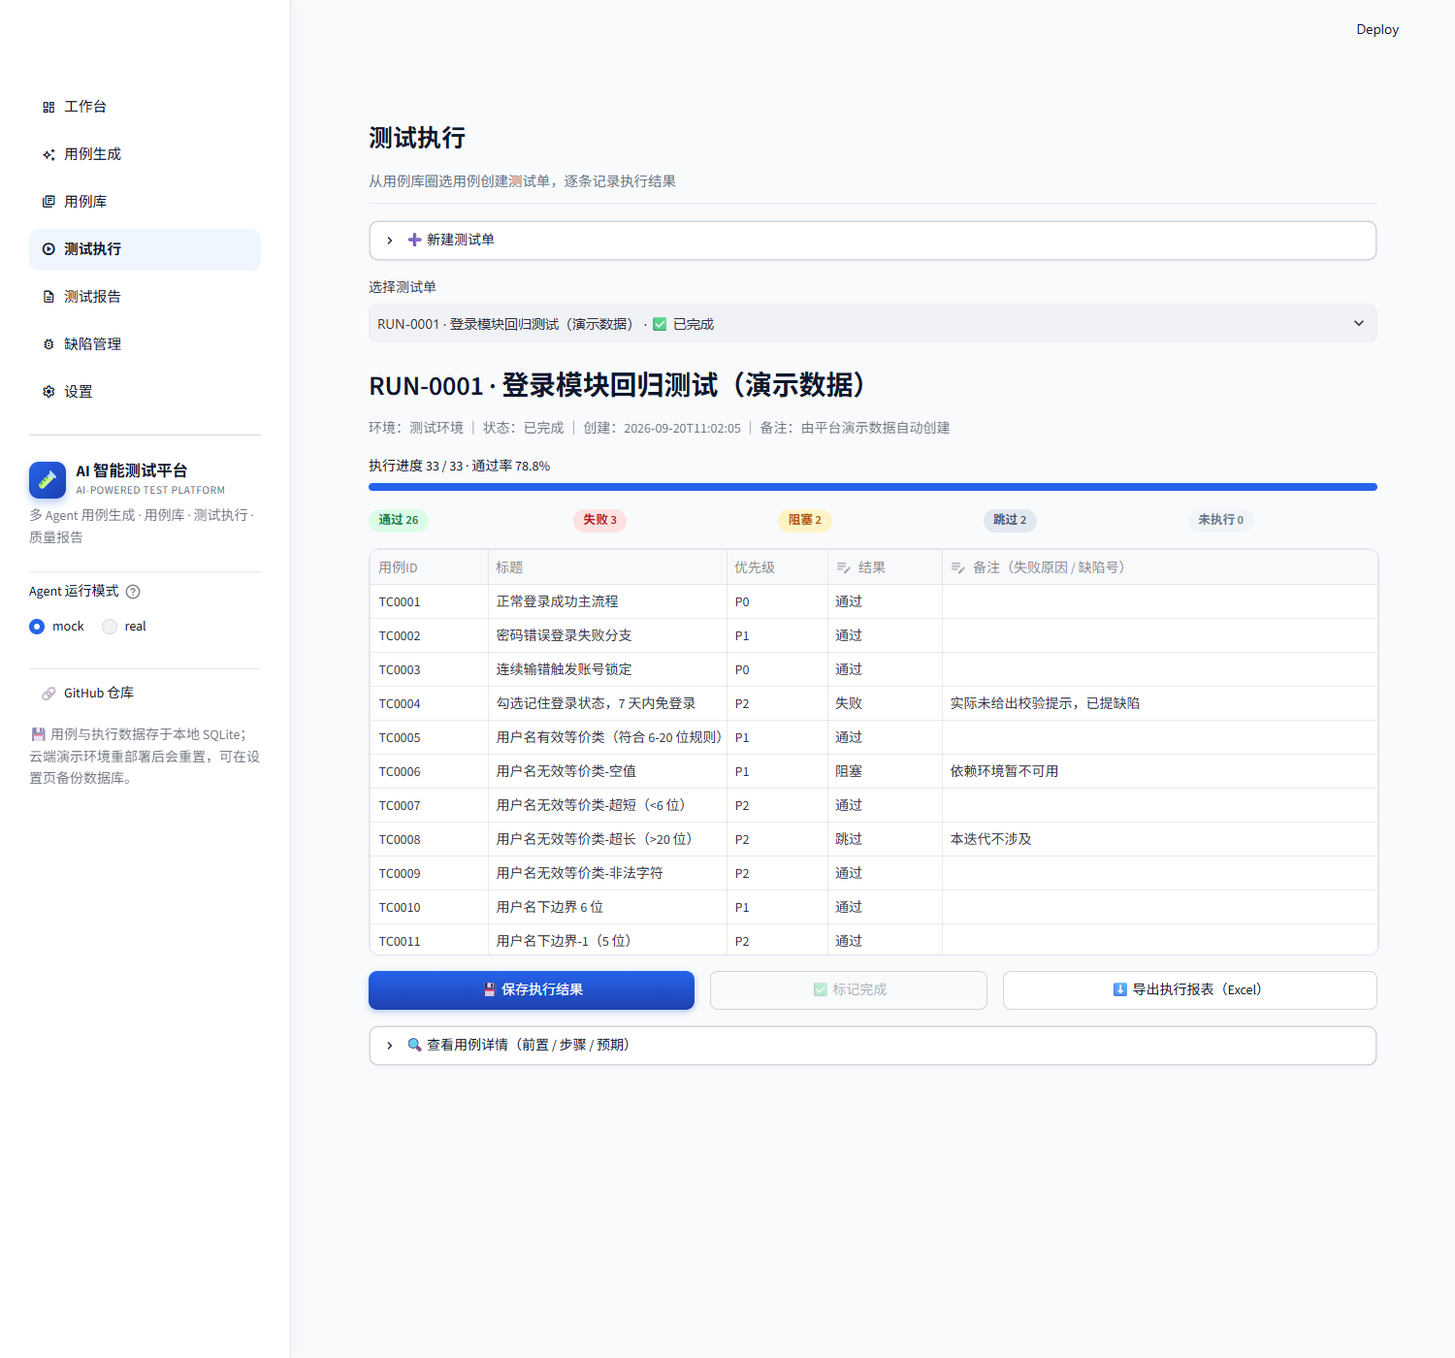
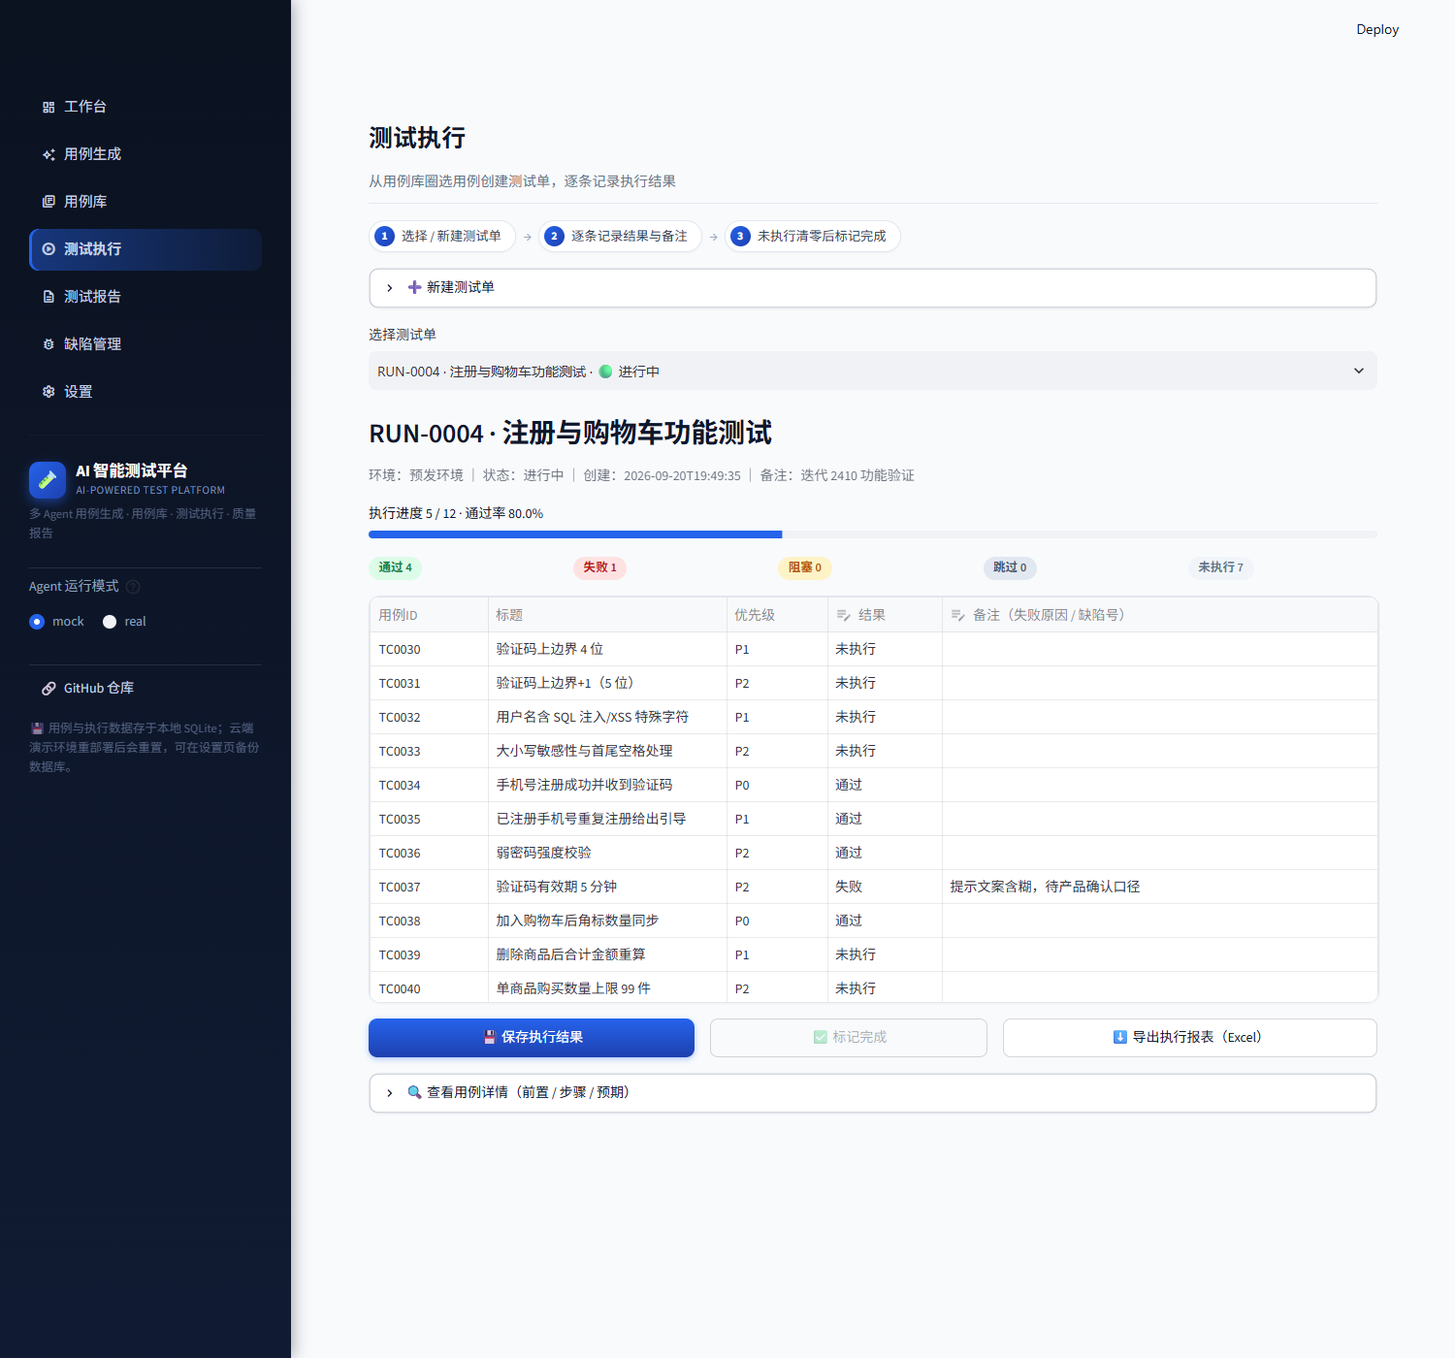
视觉与场景双升级：深色科技侧边栏 + 页面操作指引 + 电商企业级演示数据
- 侧边栏改为深海军蓝渐变（#0B1220→#101B33），导航态蓝色渐变高亮+主色内嵌光条，更专业科技感
- 新增 guide_steps 组件：生成/用例库/执行/报告/缺陷 5 页顶部步骤胶囊，标示标准操作路径
- seed_demo 重写为电商企业场景：用户注册/购物车手工用例（含前置/步骤/预期/冒烟标签）+ 登录 AI 用例，3 张测试单（回归已完成 78.8% / 每日冒烟 75% / 功能测试进行中），5 条缺陷覆盖 打开/修复中(严重)/已解决/已关闭 全状态
- 修复 seed_demo 重复填充产生重复数据问题（adopt_batch 显式 dedup=True），补充幂等单测
- 重新生成 6 张 README 演示截图

diff --git a/store.py b/store.py
@@ -544,7 +544,10 @@ def trend_last_runs(n: int = 10) -> list[dict]:
 # ---------------- 演示数据 / 清空 ----------------
 
 def seed_demo() -> None:
-    """一键填充演示数据：mock 流水线跑样例 PRD → 采纳入库 → 建一个已完成的测试单。"""
+    """一键填充演示数据：电商场景三模块 + 回归/冒烟/功能三张测试单 + 全状态缺陷。
+
+    幂等：同模块同名的用例不会重复入库；库中已有全部演示数据时为空操作。
+    """
     from agents import MockAnalyzerAgent, MockGeneratorAgent, MockReviewerAgent
     from pipeline import run as run_pipeline
 
@@ -556,33 +559,118 @@ def seed_demo() -> None:
     items = [{"module": c.module, "title": c.title, "precondition": c.precondition,
               "steps": c.steps, "expected": c.expected, "priority": c.priority,
               "method": c.method, "testpoint_id": c.testpoint_id} for c in cases]
-    _, ids = adopt_batch(prd_text, "mock", review.score, items)
-    if not ids:
+    _, login_ids = adopt_batch(prd_text, "mock", review.score, items, dedup=True)
+
+    # 手工补充 注册 / 购物车 两模块（模拟从 Excel 导入的存量用例）
+    manual = [
+        {"module": "用户注册", "title": "手机号注册成功并收到验证码", "priority": "P0",
+         "method": "场景法", "tags": "冒烟", "precondition": "手机号未注册",
+         "steps": "1. 输入未注册手机号\n2. 点击获取验证码\n3. 填写验证码与密码并提交",
+         "expected": "注册成功，跳转至首页"},
+        {"module": "用户注册", "title": "已注册手机号重复注册给出引导", "priority": "P1",
+         "method": "等价类", "precondition": "手机号已注册",
+         "steps": "1. 输入已注册手机号\n2. 点击获取验证码",
+         "expected": "提示「该手机号已注册」，引导去登录"},
+        {"module": "用户注册", "title": "弱密码强度校验", "priority": "P2",
+         "method": "边界值",
+         "steps": "1. 输入 7 位纯数字密码\n2. 提交注册",
+         "expected": "提示密码强度不足，要求字母+数字组合"},
+        {"module": "用户注册", "title": "验证码有效期 5 分钟", "priority": "P2",
+         "method": "场景法",
+         "steps": "1. 获取验证码\n2. 等待 6 分钟后填写提交",
+         "expected": "提示验证码已过期，可重新获取"},
+        {"module": "购物车", "title": "加入购物车后角标数量同步", "priority": "P0",
+         "method": "场景法", "tags": "冒烟", "precondition": "已登录，角标为 0",
+         "steps": "1. 商品详情页点击「加入购物车」\n2. 观察底部导航角标",
+         "expected": "角标数量 +1，与购物车内件数一致"},
+        {"module": "购物车", "title": "删除商品后合计金额重算", "priority": "P1",
+         "method": "场景法", "precondition": "购物车内含 2 件商品",
+         "steps": "1. 左滑删除其中 1 件\n2. 查看合计金额",
+         "expected": "合计金额同步减少，角标 -1"},
+        {"module": "购物车", "title": "单商品购买数量上限 99 件", "priority": "P2",
+         "method": "边界值",
+         "steps": "1. 数量步进调至 99 与 100\n2. 观察提交结果",
+         "expected": "99 正常保存；100 提示超出单商品上限"},
+        {"module": "购物车", "title": "下架商品不参与结算", "priority": "P1",
+         "method": "错误猜测", "precondition": "购物车内含 1 件已下架商品",
+         "steps": "1. 全选商品点击结算\n2. 查看订单明细",
+         "expected": "下架商品被自动剔除并提示，仅结算有效商品"},
+    ]
+    existing = {(c["module"], c["title"]) for c in list_cases()}
+    fresh_manual = [m for m in manual if (m["module"], m["title"]) not in existing]
+    manual_ids = add_cases(fresh_manual, source="manual") if fresh_manual else []
+    if not login_ids and not manual_ids:
         return
 
-    run_id = create_run(name="登录模块回归测试（演示数据）", env="测试环境",
-                        note="由平台演示数据自动创建", case_ids=ids)
-    # 确定性地铺一组真实感执行结果：绝大多数通过，少量失败/阻塞/跳过
-    for i, cid in enumerate(ids):
-        if i % 11 == 3:
-            result, note = "失败", "实际未给出校验提示，已提缺陷"
-        elif i % 17 == 5:
-            result, note = "阻塞", "依赖环境暂不可用"
-        elif i % 23 == 7:
-            result, note = "跳过", "本迭代不涉及"
-        else:
-            result, note = "通过", ""
-        set_result(run_id, cid, result, note)
-    finish_run(run_id)
+    # ① 登录模块回归（已完成 · 通过率 78.8%）：确定性铺真实感结果分布
+    defect_sources: list[tuple[dict, str, str]] = []  # (执行行, 严重程度, 备注)
+    if login_ids:
+        run1 = create_run(name="登录模块回归测试", env="测试环境",
+                          note="v2.4.0 发布前回归", case_ids=login_ids)
+        for i, cid in enumerate(login_ids):
+            if i % 11 == 3:
+                set_result(run1, cid, "失败", "实际未给出校验提示，已提缺陷")
+            elif i % 17 == 5:
+                set_result(run1, cid, "阻塞", "验证码服务环境暂不可用")
+            elif i % 23 == 7:
+                set_result(run1, cid, "跳过", "本迭代不涉及")
+            else:
+                set_result(run1, cid, "通过", "")
+        finish_run(run1)
+        rows1 = run_cases(run1)
+        fails = [r for r in rows1 if r["result"] == "失败"]
+        blocks = [r for r in rows1 if r["result"] == "阻塞"]
+        if fails:
+            defect_sources.append((fails[0], "一般", "打开"))
+        if blocks:
+            defect_sources.append((blocks[0], "轻微", "打开"))
+        if len(fails) > 1:
+            defect_sources.append((fails[1], "一般", "已解决"))   # 已修复，待回归验证
+        if len(blocks) > 1:
+            defect_sources.append((blocks[1], "轻微", "已关闭"))  # 已关闭
 
-    # 演示缺陷：把失败/阻塞用例登记为缺陷，形成 执行 → 缺陷 闭环示例
-    severity_of = {"失败": "一般", "阻塞": "轻微"}
-    for r in [x for x in run_cases(run_id) if x["result"] in ("失败", "阻塞")][:3]:
-        create_defect(
-            title=f"[{r['module']}] {r['title']} 执行{'失败' if r['result'] == '失败' else '受阻'}",
-            module=r["module"], severity=severity_of[r["result"]],
-            description=f"来源：RUN-{run_id:04d} 执行结果「{r['result']}」；{r['note'] or '详见执行明细'}",
-            source_case_id=r["case_id"], run_id=run_id)
+    # ② 每日冒烟（已完成 · P0 用例 · 高通过率，其中 1 条严重缺陷在修）
+    p0_cases = list_cases(priority=["P0"], status="active")[:10]
+    if p0_cases:
+        run2 = create_run(name="每日冒烟测试", env="测试环境",
+                          note="每日构建后圈选 P0 用例", case_ids=[c["id"] for c in p0_cases])
+        smoke_fail = None
+        for c in p0_cases:
+            if "角标" in c["title"]:
+                smoke_fail = c
+                set_result(run2, c["id"], "失败", "角标数量未同步刷新，已提严重缺陷")
+            else:
+                set_result(run2, c["id"], "通过", "")
+        if smoke_fail is not None:
+            defect_sources.insert(1, ({"case_id": smoke_fail["id"], "module": smoke_fail["module"],
+                                       "title": smoke_fail["title"],
+                                       "note": "角标数量与购物车实际件数不一致",
+                                       "result": "冒烟失败"},
+                                      "严重", "修复中"))
+        finish_run(run2)
+
+    # ③ 功能测试（进行中 · 部分执行）：演示执行中间态
+    func_ids = manual_ids + (login_ids[-4:] if login_ids else [])
+    if func_ids:
+        run3 = create_run(name="注册与购物车功能测试", env="预发环境",
+                          note="迭代 2410 功能验证", case_ids=func_ids)
+        for i, cid in enumerate(func_ids[:5]):
+            set_result(run3, cid, "失败" if i == 3 else "通过",
+                       "提示文案含糊，待产品确认口径" if i == 3 else "")
+    # run3 故意不 finish：保持「进行中」状态用于演示
+
+    # 演示缺陷：覆盖 打开 / 修复中 / 已解决 / 已关闭 全状态，与用例、测试单双向关联
+    result_word = {"失败": "回归失败", "阻塞": "执行受阻"}
+    for row, severity, status in defect_sources:
+        word = result_word.get(row.get("result"), row.get("result") or "测试失败")
+        did = create_defect(
+            title=f"[{row['module']}] {row['title']} {word}",
+            module=row["module"], severity=severity,
+            description=f"来源：{'每日冒烟测试' if '角标' in row['title'] else '登录模块回归测试'}；"
+                        f"{row.get('note') or '详见执行明细'}",
+            source_case_id=row["case_id"])
+        if status != "打开":
+            update_defect(did, status=status)
 
 
 def clear_all() -> None:

diff --git a/styles.py b/styles.py
@@ -46,38 +46,44 @@ _CSS = f"""
 [data-testid="stHeader"] {{ background: transparent; }}
 #MainMenu, footer, [data-testid="stStatusWidget"] {{ visibility: hidden; }}
 [data-testid="stSidebar"] {{
-    background: {CARD}; border-right: 1px solid {BORDER};
-    box-shadow: 2px 0 12px rgba(15, 23, 42, .03);
+    background: linear-gradient(180deg, #0B1220 0%, #101B33 100%);
+    border-right: none;
+    box-shadow: 2px 0 16px rgba(2, 6, 23, .35);
 }}
-[data-testid="stSidebar"] * {{ color: {TEXT}; }}
-[data-testid="stSidebar"] hr {{ margin: .35rem 0; border-color: {BORDER}; }}
+[data-testid="stSidebar"] * {{ color: #C7D2E3; }}
+[data-testid="stSidebar"] hr {{ margin: .35rem 0; border-color: rgba(148, 163, 184, .18); }}
+[data-testid="stSidebar"] [data-testid="stCaptionContainer"] p,
+[data-testid="stSidebar"] small {{ color: #7C8DB5 !important; font-size: .78rem; }}
+[data-testid="stSidebar"] label p {{ color: #8CA0BD; }}
 
-/* 侧边导航：圆角高亮，当前页蓝底 */
+/* 侧边导航：深色底圆角高亮，当前页蓝色渐变 + 左侧光条 */
 [data-testid="stSidebarNav"] {{ padding-top: .6rem; }}
 [data-testid="stSidebar"] span, [data-testid="stSidebar"] a {{ font-size: .92rem; }}
 [data-testid="stPageLink-NavLink"], [data-testid="stSidebarNav"] a {{
     border-radius: 10px !important; padding: .42rem .75rem !important;
+    color: #AAB8CE !important;
     transition: background .12s ease, color .12s ease;
 }}
 [data-testid="stPageLink-NavLink"]:hover, [data-testid="stSidebarNav"] a:hover {{
-    background: #F1F5F9;
+    background: rgba(148, 163, 184, .13) !important; color: #FFFFFF !important;
 }}
 [aria-current="page"][data-testid="stPageLink-NavLink"],
 [data-testid="stSidebarNav"] a[aria-current="page"] {{
-    background: {PRIMARY_LIGHT} !important; color: {PRIMARY_DARK} !important;
-    font-weight: 600;
+    background: linear-gradient(90deg, rgba(37, 99, 235, .45), rgba(37, 99, 235, .10)) !important;
+    color: #FFFFFF !important; font-weight: 600;
+    box-shadow: inset 3px 0 0 {PRIMARY};
 }}
 
-/* 品牌块 */
+/* 品牌块（深色底） */
 .brand {{ display: flex; align-items: center; gap: .65rem; padding: .2rem 0 .4rem 0; }}
 .brand .logo {{
     width: 38px; height: 38px; border-radius: 10px; flex: none;
     display: flex; align-items: center; justify-content: center; font-size: 1.15rem;
     background: linear-gradient(135deg, {PRIMARY}, {PRIMARY_DARK});
-    box-shadow: 0 4px 10px rgba(37, 99, 235, .35);
+    box-shadow: 0 4px 12px rgba(37, 99, 235, .5);
 }}
-.brand .n {{ font-weight: 700; font-size: 1.02rem; line-height: 1.25; }}
-.brand .d {{ color: {MUTED}; font-size: .72rem; letter-spacing: .04em; }}
+.brand .n {{ font-weight: 700; font-size: 1.02rem; line-height: 1.25; color: #FFFFFF; }}
+.brand .d {{ color: #7C8DB5; font-size: .72rem; letter-spacing: .04em; }}
 
 /* ---------- 页面标题 ---------- */
 .page-header {{ margin-bottom: .25rem; }}
@@ -89,6 +95,22 @@ _CSS = f"""
 .page-header hr {{
     border: none; border-top: 1px solid {BORDER}; margin: .6rem 0 1.1rem 0;
 }}
+
+/* ---------- 操作指引条：① → ② → ③ 步骤胶囊 ---------- */
+.guide {{ display: flex; align-items: center; flex-wrap: wrap; gap: .45rem; margin: 0 0 1.05rem 0; }}
+.guide .gs {{
+    display: inline-flex; align-items: center; gap: .45rem;
+    background: {CARD}; border: 1px solid {BORDER}; border-radius: 999px;
+    padding: .28rem .9rem .28rem .3rem; font-size: .83rem; color: #334155;
+    box-shadow: 0 1px 2px rgba(15, 23, 42, .04);
+}}
+.guide .gs-n {{
+    width: 21px; height: 21px; border-radius: 50%; flex: none;
+    background: linear-gradient(135deg, {PRIMARY}, {PRIMARY_DARK}); color: #FFFFFF;
+    font-size: .72rem; font-weight: 700;
+    display: flex; align-items: center; justify-content: center;
+}}
+.guide .gs-a {{ color: #94A3B8; font-size: .85rem; }}
 
 /* ---------- KPI 卡片：白卡 + 顶部色条 + 悬浮上浮 ---------- */
 .kpi-card {{
@@ -193,6 +215,15 @@ def page_header(title: str, desc: str = "") -> None:
         + (f"<p>{desc}</p>" if desc else "")
         + "<hr></div>",
         unsafe_allow_html=True)
+
+
+def guide_steps(steps: list[str]) -> None:
+    """页面操作指引条：① → ② → ③ 步骤胶囊，告诉用户本页的标准操作路径。"""
+    chips = "".join(
+        f'<span class="gs"><span class="gs-n">{i + 1}</span>{s}</span>'
+        + ('' if i == len(steps) - 1 else '<span class="gs-a">→</span>')
+        for i, s in enumerate(steps))
+    st.markdown(f'<div class="guide">{chips}</div>', unsafe_allow_html=True)
 
 
 def kpi_card(label: str, value, delta: str = "", accent: str = PRIMARY) -> None:

diff --git a/tests/test_store.py b/tests/test_store.py
@@ -103,16 +103,24 @@ def test_delete_case_cascades_run_results(tmp_db):
 
 def test_seed_demo_and_clear(tmp_db):
     store.seed_demo()
+    store.seed_demo()  # 幂等：重复填充不产生重复数据
     cases = store.list_cases()
-    assert len(cases) > 0 and all(c["source"] == "ai" for c in cases)
+    assert len(cases) > 0 and {c["source"] for c in cases} == {"ai", "manual"}
+
     runs = store.list_runs()
-    assert len(runs) == 1 and runs[0]["status"] == "done"
-    assert runs[0]["failed"] > 0 and runs[0]["passed"] > 0  # 真实感结果分布
-    assert store.defect_stats()["total"] > 0  # 演示数据同步铺缺陷
+    assert len(runs) == 3 and sum(r["status"] == "done" for r in runs) == 2
+    assert runs[0]["status"] == "in_progress"  # 功能测试保持执行中间态
+    assert all(r["passed"] > 0 for r in runs if r["status"] == "done")
+
+    # 缺陷覆盖 打开 / 修复中 / 已解决 / 已关闭 全状态
+    stats = store.defect_stats()
+    assert (stats["total"], stats["打开"], stats["修复中"],
+            stats["已解决"], stats["已关闭"]) == (5, 2, 1, 1, 1)
 
     kpi = store.kpi_snapshot()
     assert kpi["cases_total"] == len(cases) and kpi["last_pass_rate"] is not None
-    assert kpi["defects_open"] > 0
+    assert kpi["defects_open"] == 3  # 打开 2 + 修复中 1
+    assert len(store.trend_last_runs(5)) == 2  # 两张已完成单形成趋势线
     assert store.method_stats() and store.priority_stats()
 
     store.clear_all()

diff --git a/views/generate.py b/views/generate.py
@@ -13,7 +13,7 @@ from excel_export import generation_workbook
 from methods import METHODS
 from pipeline import cases_csv, report_markdown
 import store
-from styles import page_header, priority_styler
+from styles import guide_steps, page_header, priority_styler
 
 
 def _get_agents(mode: str):
@@ -32,6 +32,7 @@ def _export_generation_excel(n_points: int, n_cases: int, score: int, case_ids: 
 
 def render() -> None:
     page_header("用例生成", "粘贴 PRD，三 Agent 流水线产出测试点与用例，人工勾选采纳后沉淀入用例库")
+    guide_steps(["粘贴 PRD 文档", "点击「开始生成」", "评审后勾选采纳入库", "导出报告归档"])
 
     with st.expander("📐 注入的测试方法论", expanded=False):
         st.markdown("　".join(f"**{m}**" for m in METHODS))

diff --git a/views/execution.py b/views/execution.py
@@ -9,7 +9,7 @@ import streamlit as st
 from excel_export import run_report_workbook
 from methods import METHODS
 import store
-from styles import RESULT_COLORS, page_header, pill, result_styler
+from styles import RESULT_COLORS, guide_steps, page_header, pill, result_styler
 
 _RESULTS = ["未执行", "通过", "失败", "阻塞", "跳过"]
 
@@ -25,6 +25,7 @@ def _export_run_excel(version: int, run_id: int) -> bytes:
 
 def render() -> None:
     page_header("测试执行", "从用例库圈选用例创建测试单，逐条记录执行结果")
+    guide_steps(["选择 / 新建测试单", "逐条记录结果与备注", "未执行清零后标记完成"])
     runs = store.list_runs()
     _create_run_expander(runs)
 

diff --git a/views/reports.py b/views/reports.py
@@ -8,11 +8,12 @@ import streamlit as st
 from excel_export import run_report_workbook
 import store
 from styles import (DANGER, PLOTLY_CONFIG, PRIMARY, SUCCESS, WARNING, banner,
-                    kpi_card, page_header, result_styler, style_chart)
+                    guide_steps, kpi_card, page_header, result_styler, style_chart)
 
 
 def render() -> None:
     page_header("测试报告", "单次测试单的执行统计、模块/优先级下钻与发布建议")
+    guide_steps(["选择测试单", "查看结论与下钻分析", "登记缺陷并导出报告"])
     runs = store.list_runs()
     if not runs:
         st.info("还没有测试单。先去「测试执行」创建并记录执行结果。")

diff --git a/views/defects.py b/views/defects.py
@@ -6,11 +6,13 @@ import streamlit as st
 
 import store
 from styles import (DANGER, DEFECT_STATUS_COLORS, PRIMARY, SEVERITY_COLORS,
-                    SUCCESS, WARNING, kpi_card, page_header, pill_styler)
+                    SUCCESS, WARNING, guide_steps, kpi_card, page_header,
+                    pill_styler)
 
 
 def render() -> None:
     page_header("缺陷管理", "失败问题全程跟踪：登记 → 修复 → 验证关闭，与用例 / 测试单双向关联")
+    guide_steps(["从报告页或手工登记缺陷", "跟进修复流转状态", "回归验证后关闭"])
 
     _kpi_band()
     defects = _toolbar_and_query()

diff --git a/views/library.py b/views/library.py
@@ -9,7 +9,7 @@ import streamlit as st
 from excel_export import library_workbook
 from methods import METHODS
 import store
-from styles import page_header, priority_styler
+from styles import guide_steps, page_header, priority_styler
 
 
 @st.cache_data(show_spinner=False)
@@ -20,6 +20,7 @@ def _export_library_excel(version: int) -> bytes:
 
 def render() -> None:
     page_header("用例库", "团队测试资产：检索筛选、圈选建单、编辑维护")
+    guide_steps(["筛选或导入用例", "勾选圈选目标用例", "批量新建测试单 / 维护"])
 
     cases = _toolbar_and_query()
     if not cases:

diff --git a/README.md b/README.md
@@ -39,7 +39,7 @@
 
 | 页面 | 能力 |
 |---|---|
-| **工作台** | 用例总数 / AI 占比 / 测试单 / 待处理缺陷 / 最近通过率 5 张 KPI 卡，方法分布环形图、优先级×来源堆叠柱、通过率趋势折线、最近测试单表；空库一键填充演示数据 |
+| **工作台** | 用例总数 / AI 占比 / 测试单 / 待处理缺陷 / 最近通过率 5 张 KPI 卡，方法分布环形图、优先级×来源堆叠柱、通过率趋势折线、最近测试单表；空库一键填充演示数据（电商场景：用户注册 / 购物车两模块手工用例 + 登录模块 AI 用例，3 张测试单覆盖 进行中 / 回归完成 / 冒烟完成，5 条缺陷覆盖全部状态） |
 | **用例生成** | 粘贴 PRD → AnalyzerAgent → GeneratorAgent → ReviewerAgent 全程可视化，5 个页签（测试点 / 用例 / 评审详情 / **采纳入库** / 导出 CSV·MD·Excel） |
 | **用例库** | 关键字 + 方法 + 优先级 + 来源 + 状态组合筛选；多选圈选 → 直接建测试单；单条详情 / 表单编辑 / 停用 / 删除；**Excel 批量导入存量用例**（含模板下载与入库前预览）；新建手工用例 |
 | **测试执行** | 从用例库圈选创建测试单；执行面板：进度条、结果 pill 统计、逐条结果下拉 + 失败备注；未执行清零才能"标记完成"；Excel 执行报表 |
